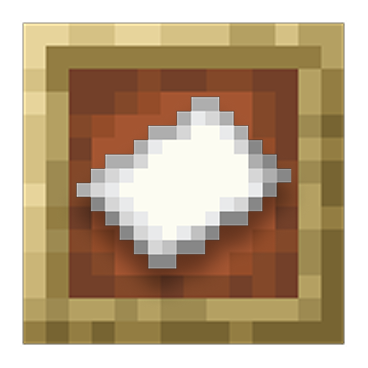
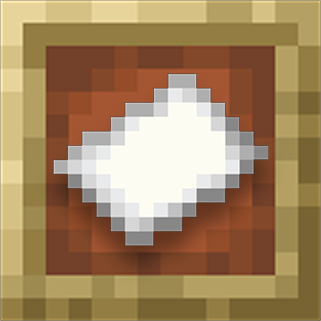
Major changes made to the buttons

diff --git a/index.html b/index.html
@@ -9,9 +9,9 @@
     <body>
         <div class="container">
             <div id="buttons">
-                <button id="rock">Rock</button>
-                <button id="paper">Paper</button>
-                <button id="scissors">Scissors</button>
+                <button id="rock"><img src="./img/Rock.png" alt="Rock"></button>
+                <button id="paper"><img src="./img/Paper.png" alt="Paper"></button>
+                <button id="scissors"><img src="./img/Scissors.png" alt="Scissors"></button>
             </div>
             
             <div id="scoreboard"></div>

diff --git a/styles.css b/styles.css
@@ -1,0 +1,27 @@
+#container {
+    display: flex;
+}
+
+#buttons {
+    display: flex;
+    flex-direction: row;
+    background-color: transparent;
+    justify-content: space-around;
+    gap: 40px;
+
+}
+
+button {
+    padding: 0;
+    border: 0;
+    transition: transform 0.3s;
+    transition: box-shadow 2s;
+}
+
+button:hover{
+    background-color: rgba(162, 156, 79, 0.544);
+    border-color: transparent;
+    backdrop-filter: blur(1000px);
+    transform: translateY(-30px);
+    box-shadow: 0 0 70px 30px #fff5cb;
+}
